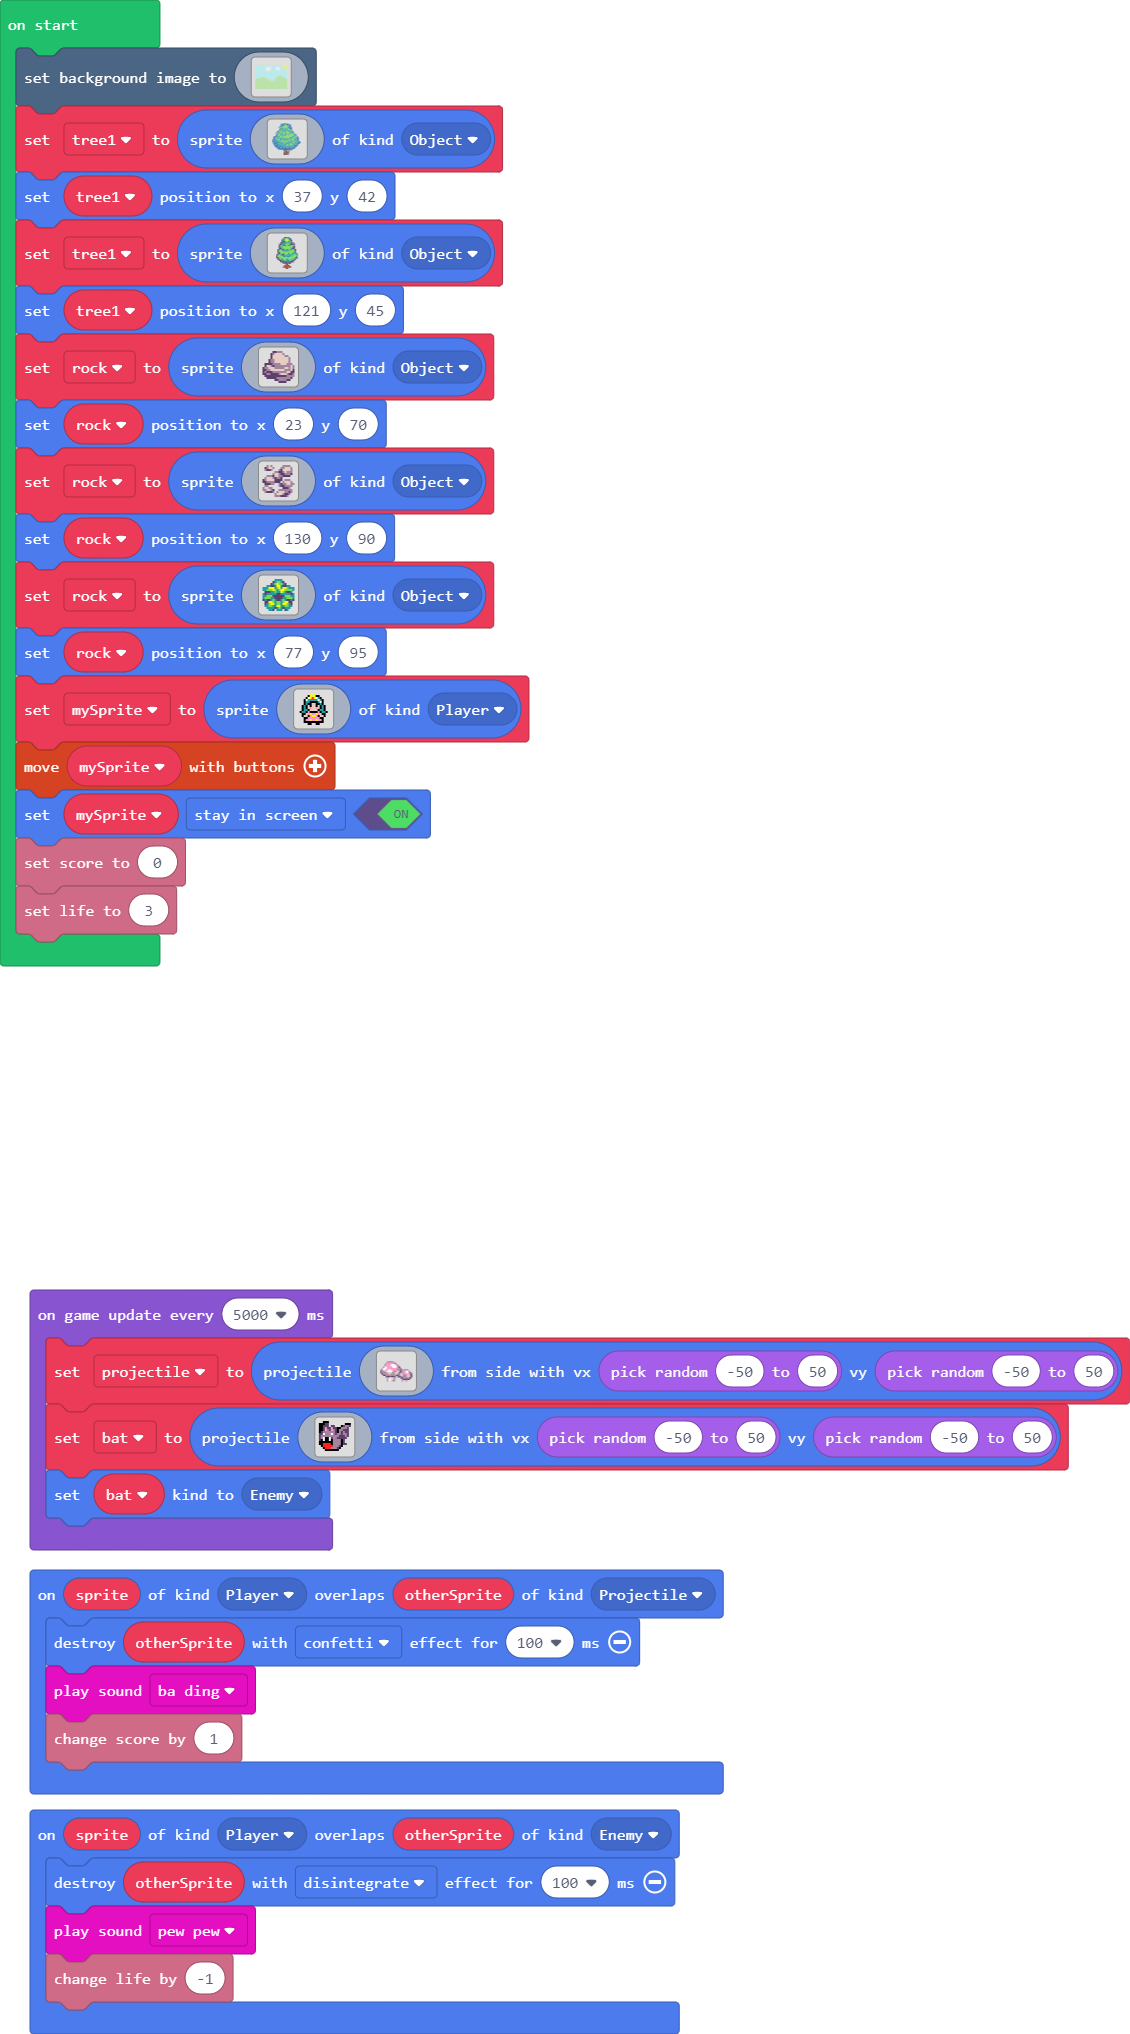
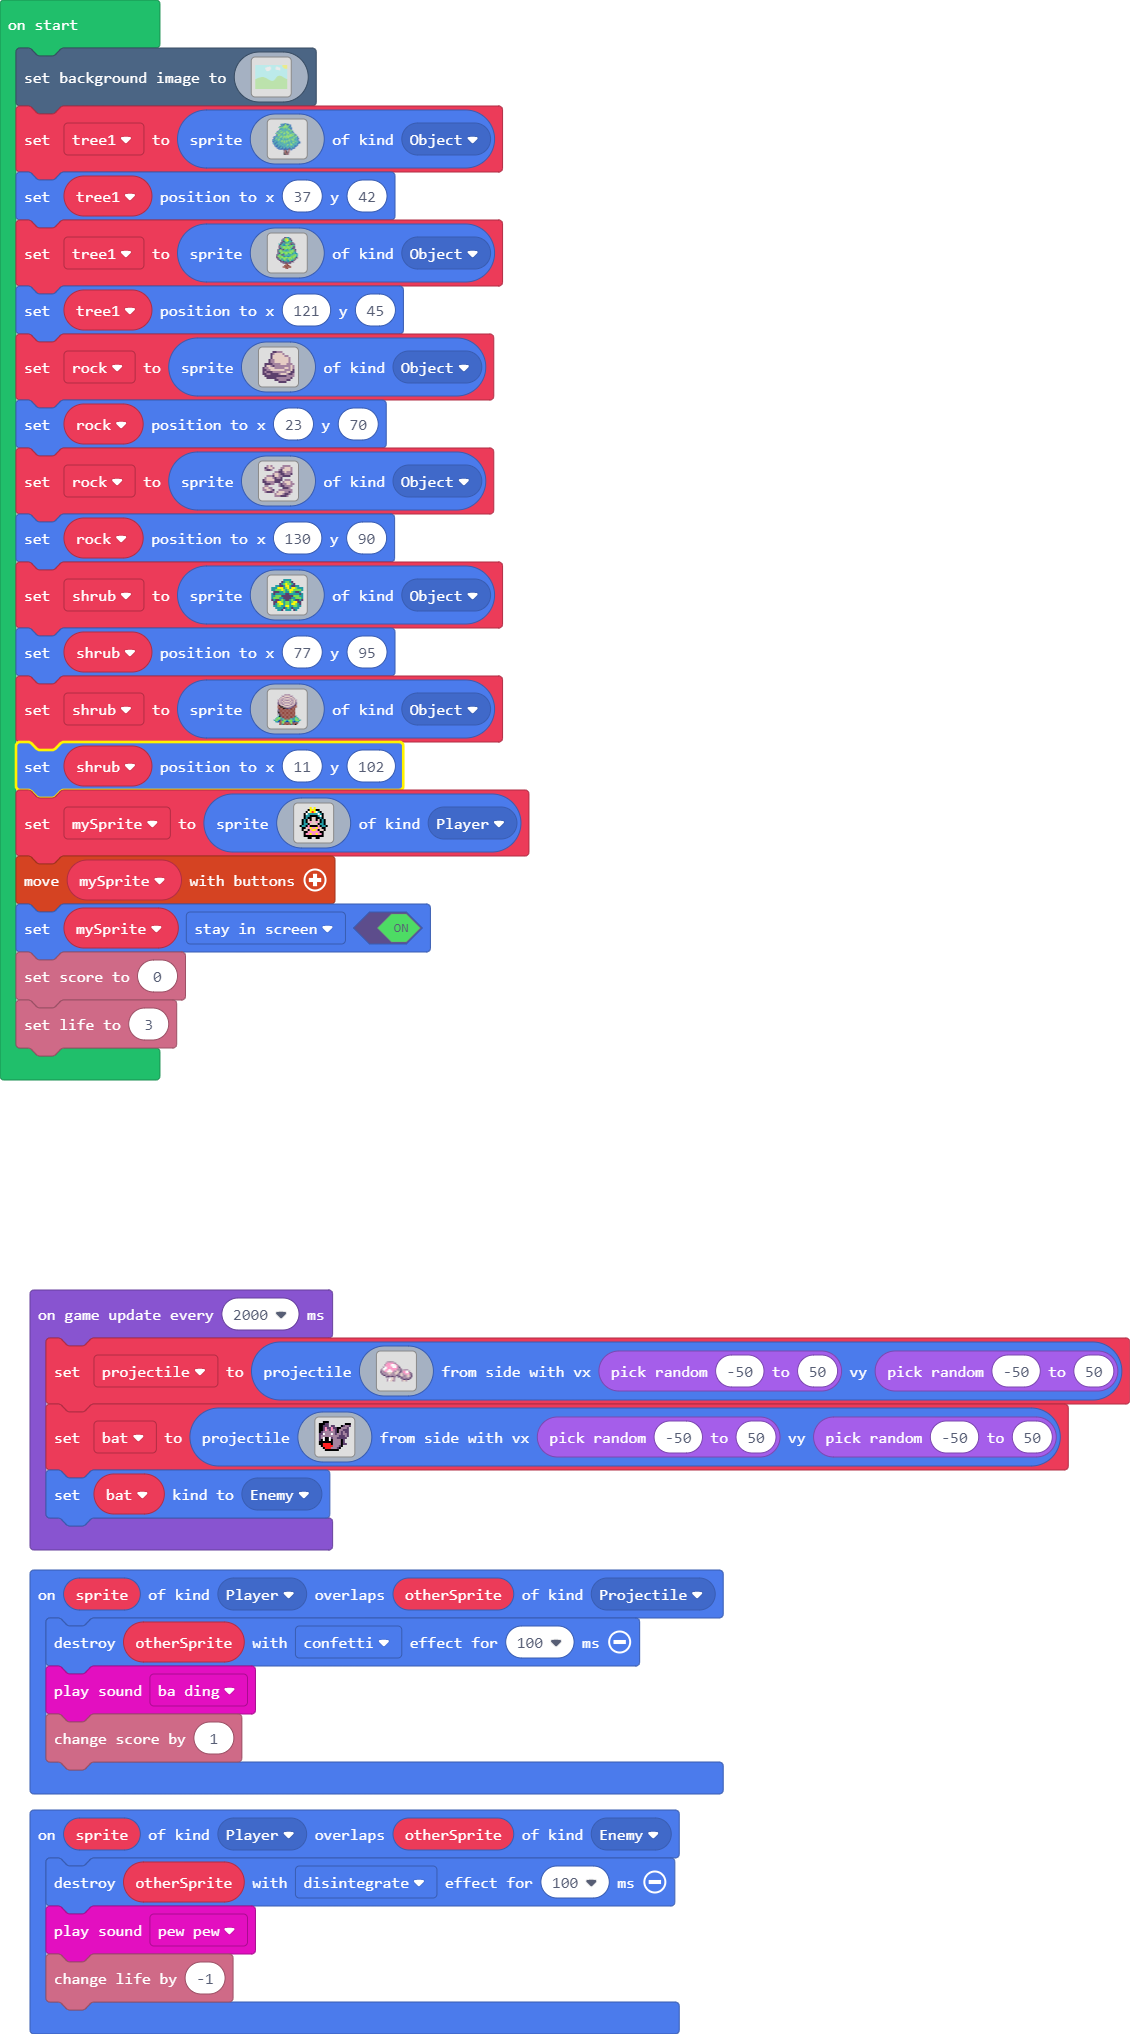
Added some objects in the background

Changed region(s): [[0.0, 0.2788, 0.4956, 0.5575]]

diff --git a/main.ts b/main.ts
@@ -244,7 +244,7 @@ b b d d b c . . b b b b b b b .
 . . . . . . b b b c c c b . . . 
 `, SpriteKind.Object)
 rock.setPosition(130, 90)
-rock = sprites.create(img`
+let shrub = sprites.create(img`
 . . . . . . 6 6 6 6 . . . . . . 
 . . . . . c 6 7 7 6 c . . . . . 
 . . . . c 6 7 5 7 7 6 c . . . . 
@@ -262,7 +262,34 @@ c 6 c c 6 7 6 c c 6 7 6 c c 6 c
 . . 6 6 6 6 c 6 7 6 c 6 6 6 . . 
 . . . 6 6 c . 6 6 6 . c 6 . . . 
 `, SpriteKind.Object)
-rock.setPosition(77, 95)
+shrub.setPosition(77, 95)
+shrub = sprites.create(img`
+. . . . . . . . . . . . . . . . . . . . . . . . 
+. . . . . . . . . . b b b b . . . . . . . . . . 
+. . . . . . . . b b d d d d b b . . . . . . . . 
+. . . . . . . b d d b b b b d d b . . . . . . . 
+. . . . . . b d b b d d d d b b d b . . . . . . 
+. . . . . b d b b d b b b b d b b d b . . . . . 
+. . . . . b d b d b d d d d b d b d b . . . . . 
+. . . . . c d b b d b b b b d b b d c . . . . . 
+. . . . . c b d b b d d d d b b d b c . . . . . 
+. . . . . e f b d d b b b b d d b c e . . . . . 
+. . . . . e e f f b d d d d b c c e e . . . . . 
+. . . . . e e e e f f c c c c e e e . . . . . . 
+. . . . . c e e e e e e e e e e e e . . . . . . 
+. . . . . c e e e e e e e e e e e e . . . . . . 
+. . . . . f e e e e e e e e e e e e . . . . . . 
+. . . . . c c e e e e e e e e e e e . . . . . . 
+. . . . . . f e e e e e e e e e e e . . . . . . 
+. . . . . 6 f c e e e e e e e e e e 6 . . . . . 
+. . . . 6 7 7 6 e e e e e e e e e 6 7 6 . . . . 
+. . . 6 7 7 7 6 6 6 e e e e 6 6 6 6 7 7 6 . . . 
+. . 6 7 7 6 8 e 6 7 7 6 6 7 7 7 6 6 7 7 7 6 . . 
+. . . 6 6 8 e e 7 7 6 8 8 6 7 7 8 8 6 6 6 . . . 
+. . . . . . e e 7 7 e e e e 7 7 e c e e . . . . 
+. . . . . . e e 6 e e e e e e 6 e e f . . . . . 
+`, SpriteKind.Object)
+shrub.setPosition(11, 102)
 let mySprite = sprites.create(img`
 . . . . . . 5 . 5 . . . . . . . 
 . . . . . f 5 5 5 f f . . . . . 
@@ -285,7 +312,7 @@ controller.moveSprite(mySprite)
 mySprite.setFlag(SpriteFlag.StayInScreen, true)
 info.setScore(0)
 info.setLife(3)
-game.onUpdateInterval(5000, function () {
+game.onUpdateInterval(2000, function () {
     projectile = sprites.createProjectileFromSide(img`
 . . . . . . . . . . . . . . . . . . . . . . . . 
 . . . . . b b b b b . . . . . . . . . . . . . . 
